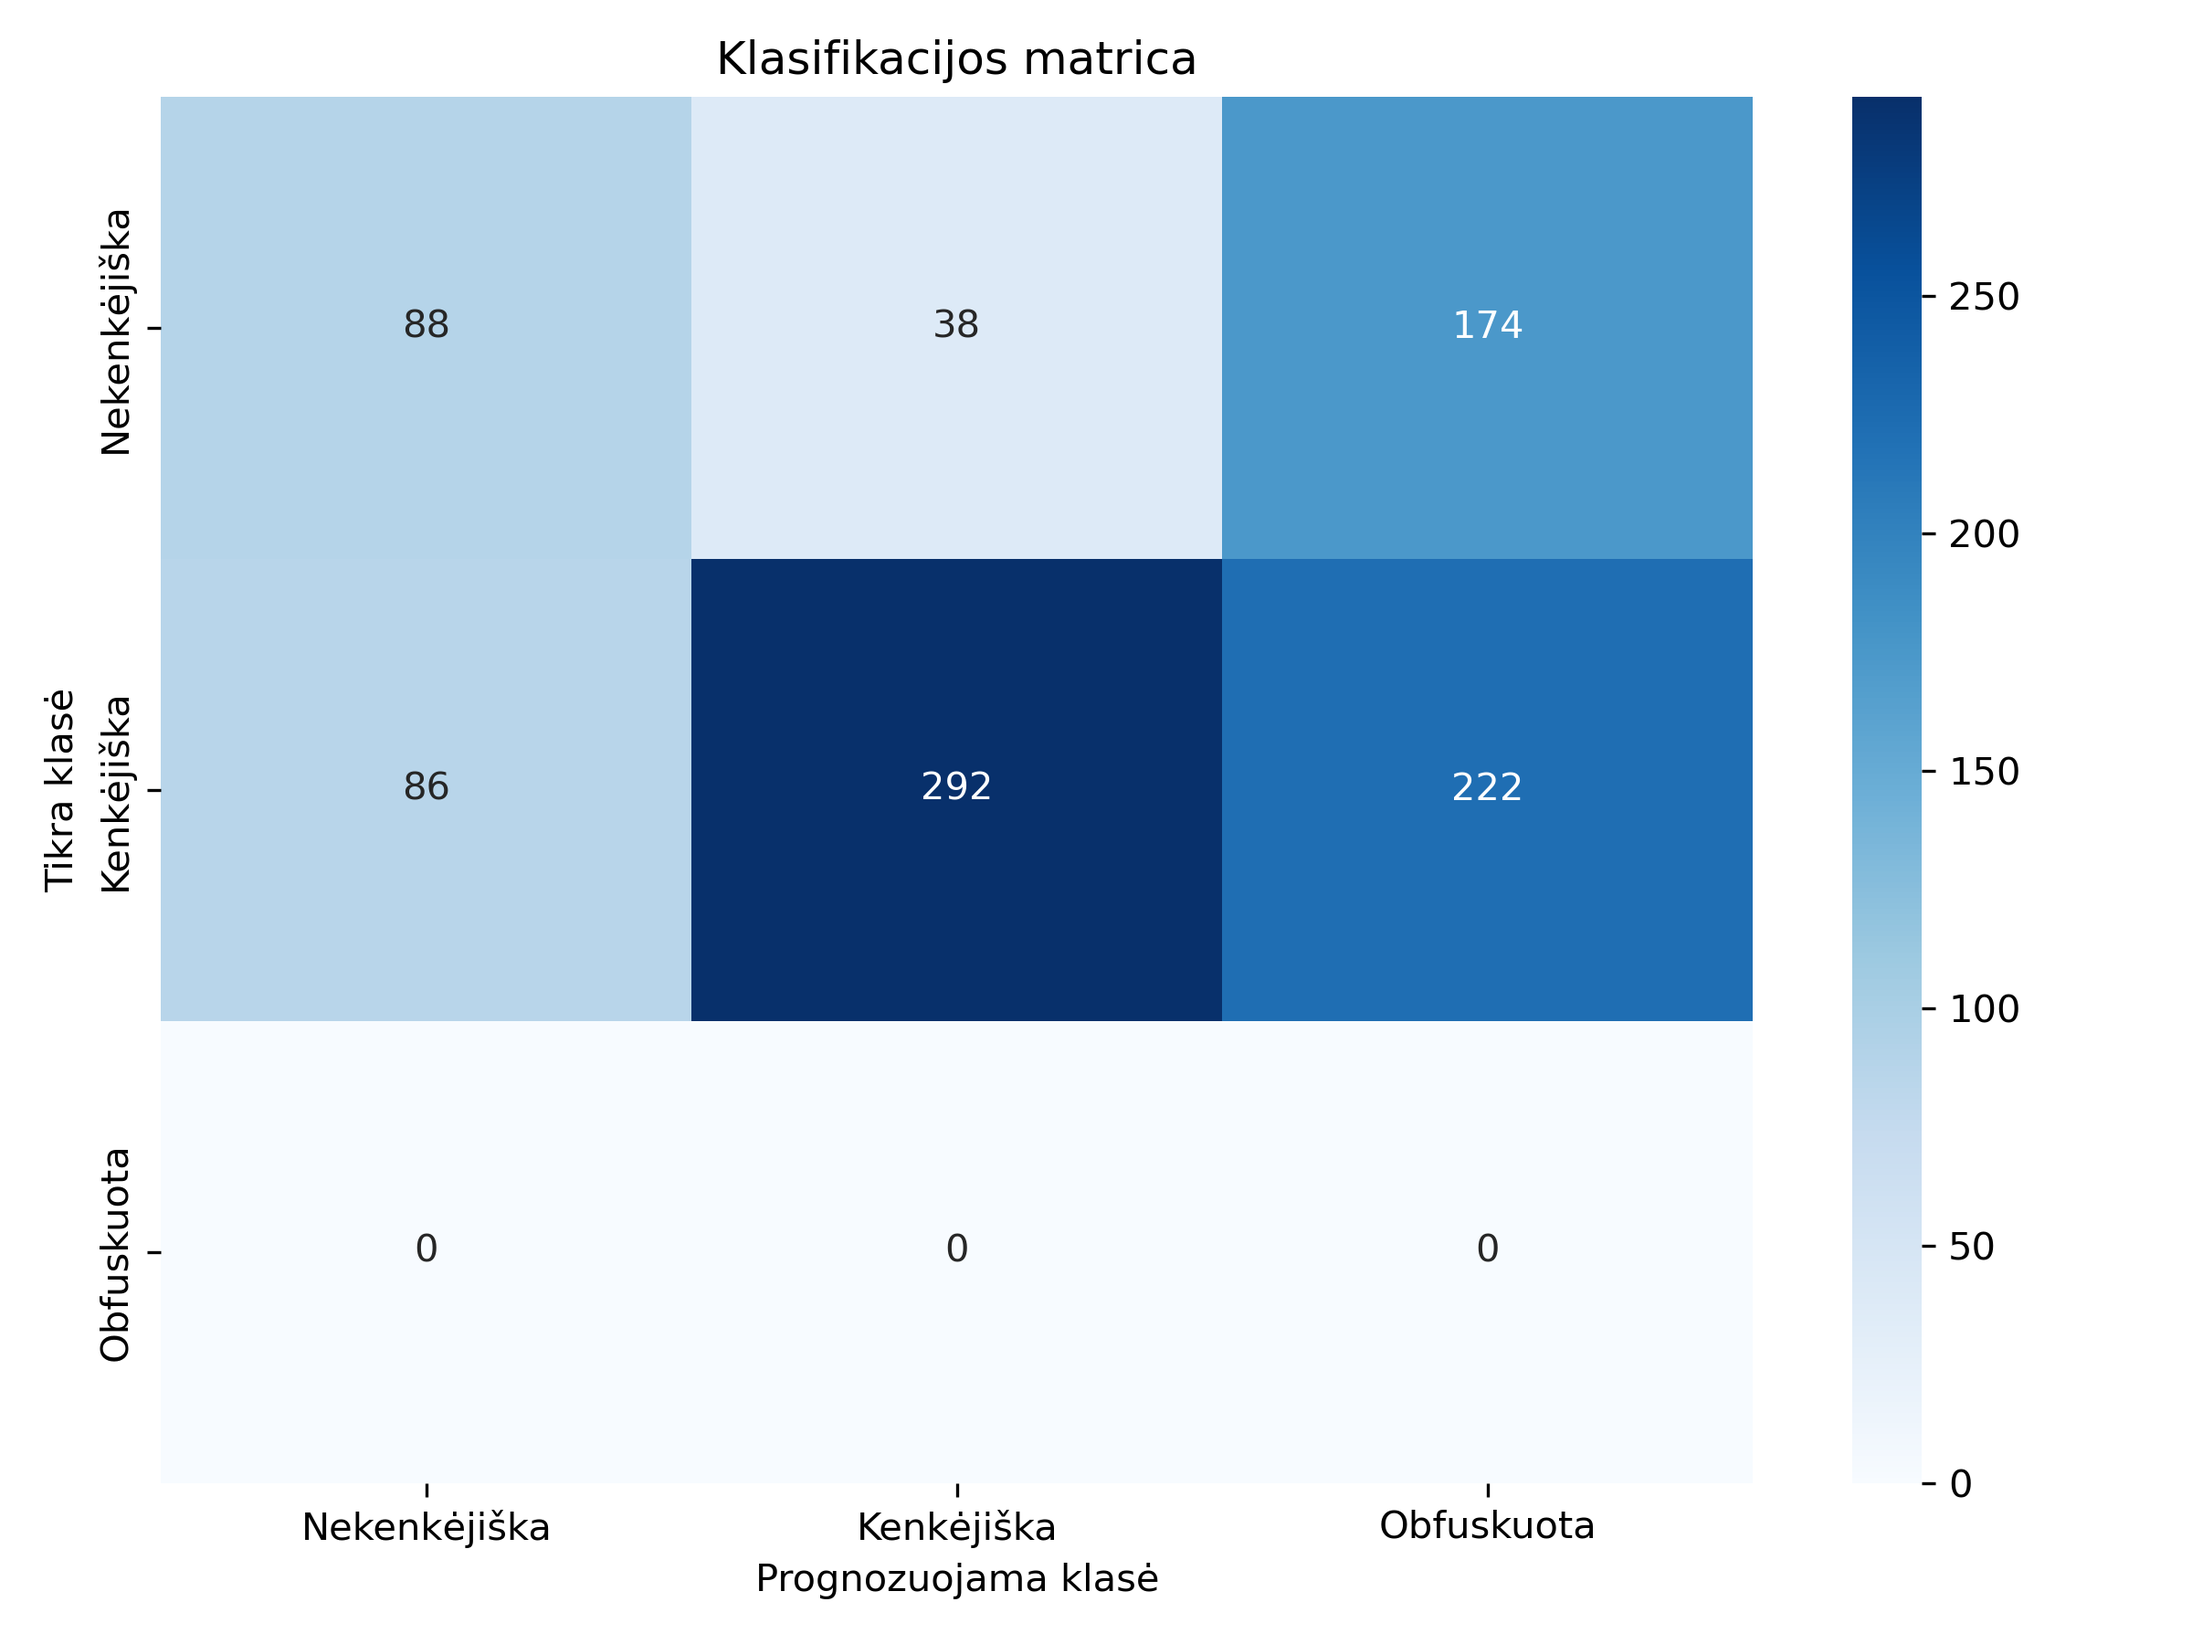
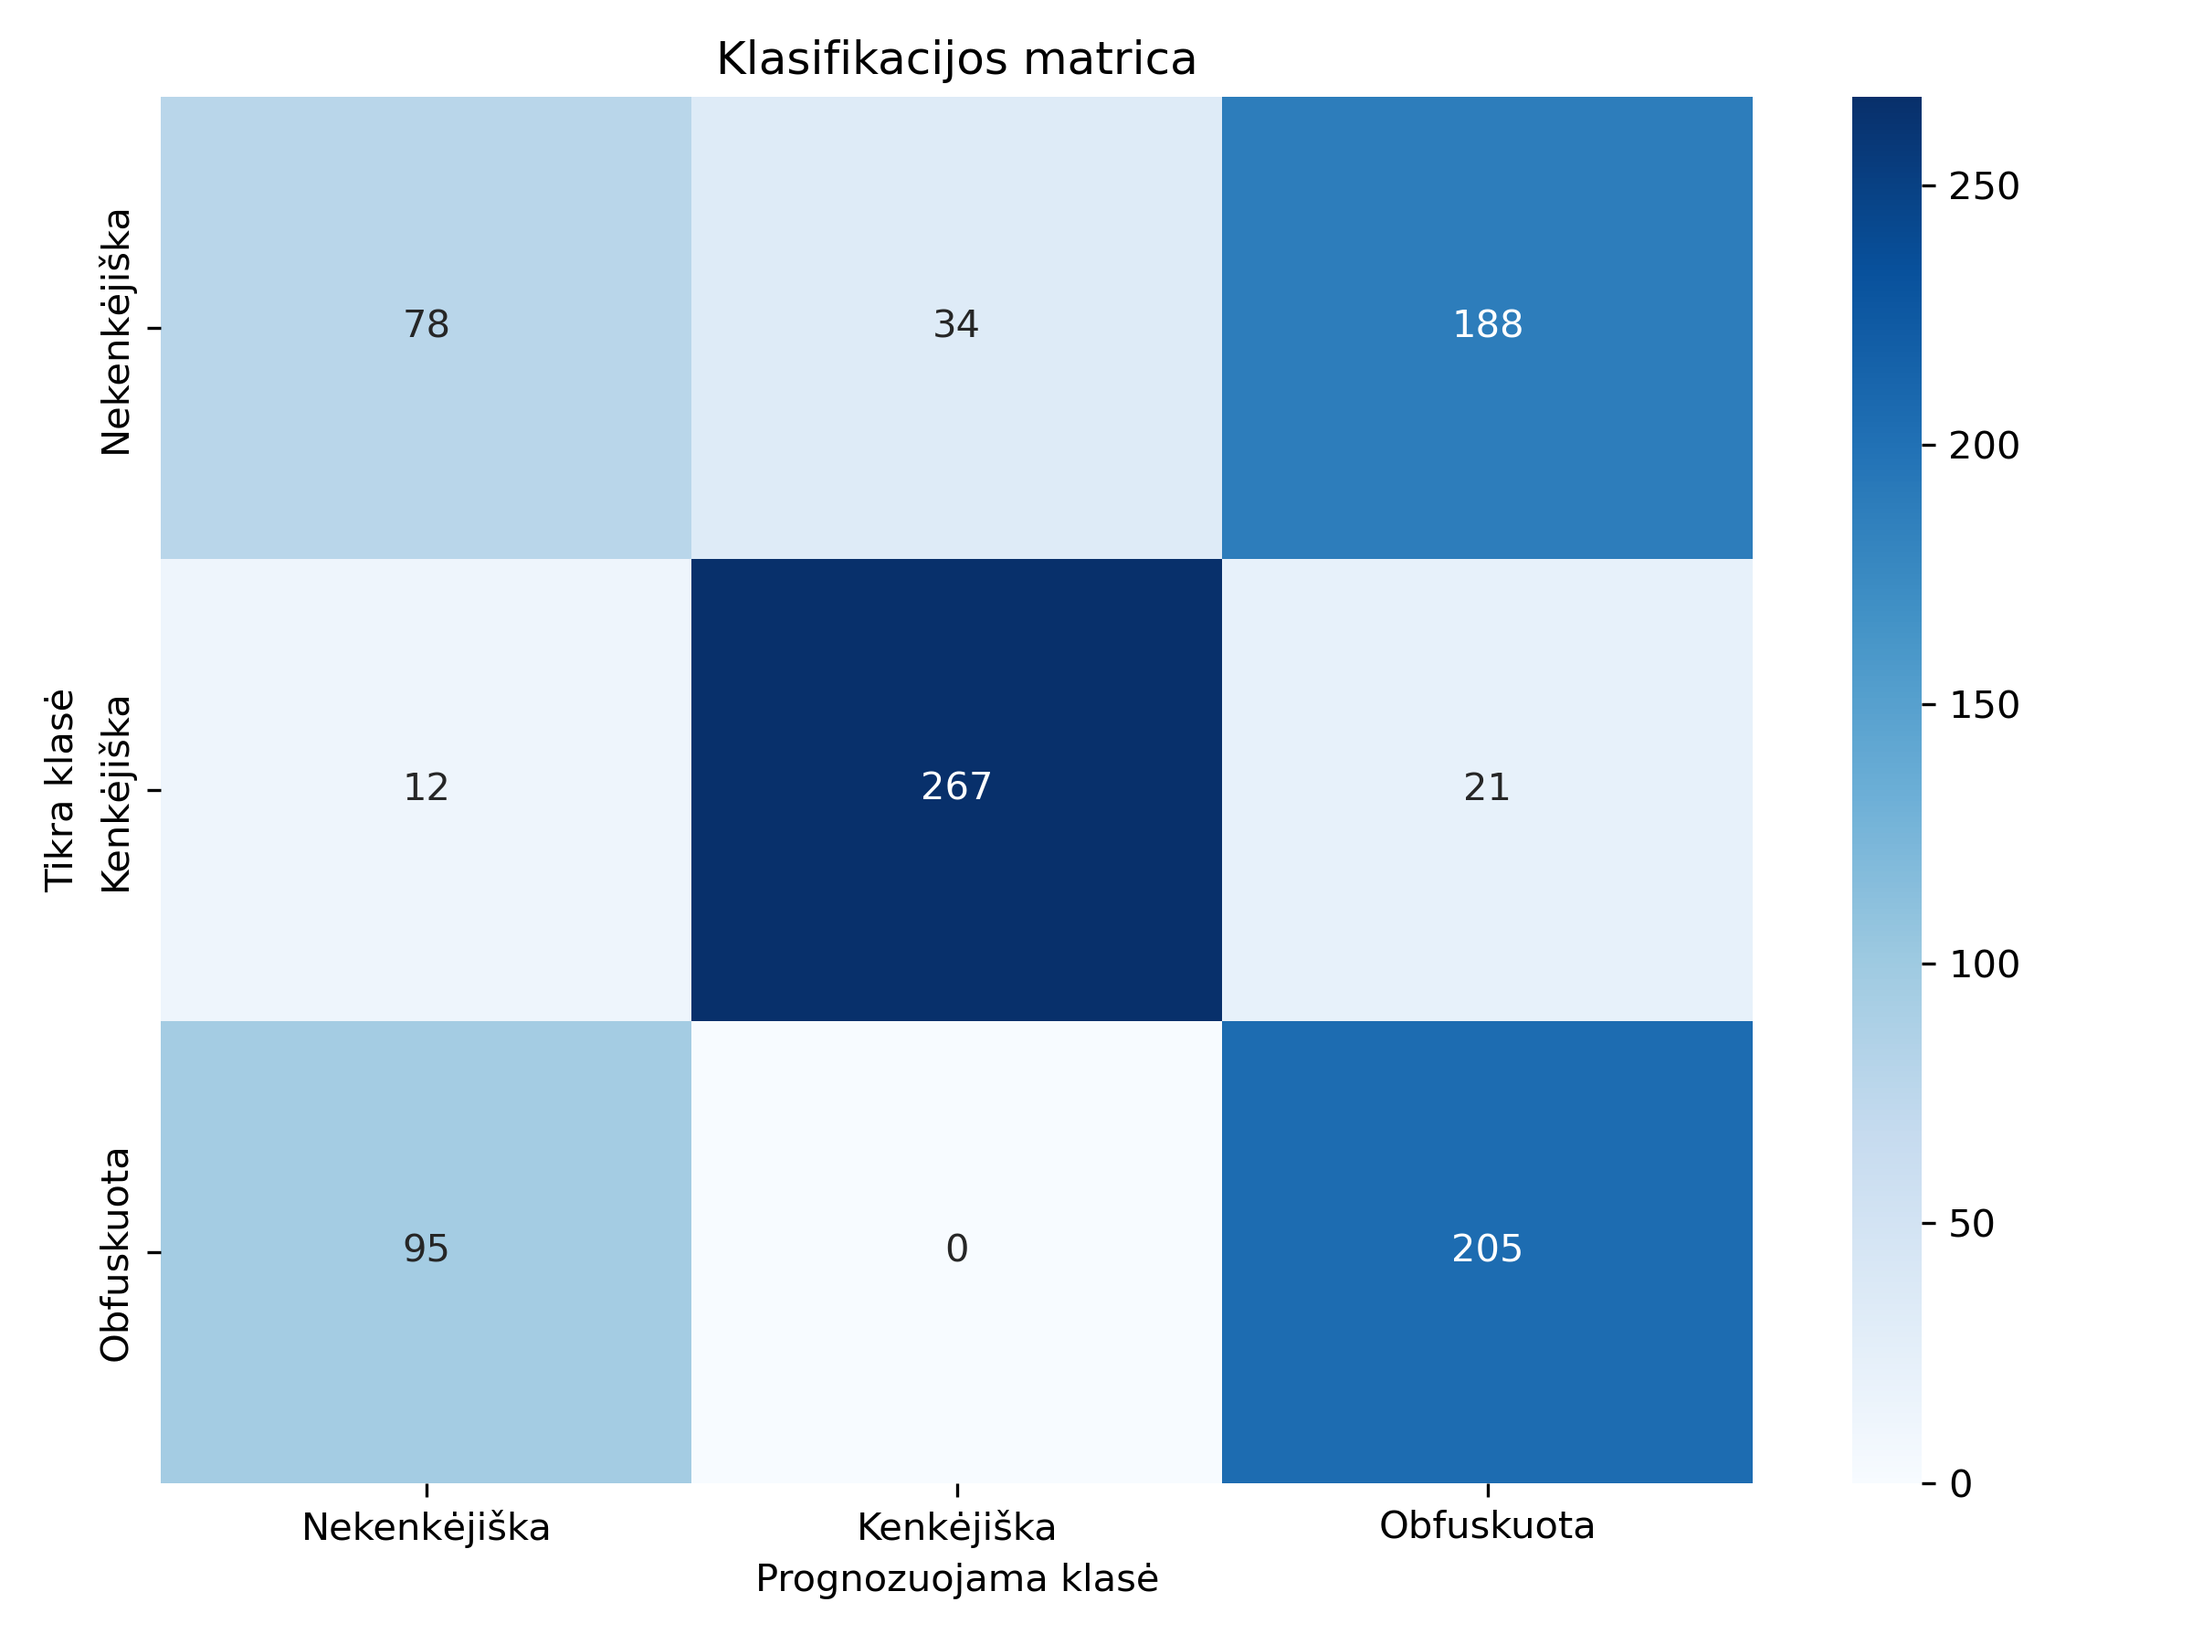
feat(chap-3): Add 4th experiment - MCA-only classification

diff --git a/structure/experiments/methodology.tex b/structure/experiments/methodology.tex
@@ -4,7 +4,7 @@
 
 Visa tyrimo metodika pavaizduota \ref{fig:methodology}-ame pav. Tyrimo tikslas yra nustatyti, ar \LIME ir \gls{mca} metodų sintezė geba efektyviai aptikti \glsplka{adversarial} ir ar šio metodo tikslumas didesnis nei Tcydenovos ir kt. pasiūlyto \LIME pritaikymo \glsplko{adversarial} aptikimui. Tyrimui pasirinktas \SLEIPNIR \cite{al-dujailiAdversarialDeepLearning2018} duomenų rinkinys, kuriame yra $34995$ kenkėjiškų programų ir $19696$ nekenkėjiškų programų pavyzdžių, užkoduotų $22761$-mačiais dvejetainiais vektoriais. Iš šio rinkinio pasirinkta po $1500$ unikalių kenkėjiškų ir nekenkėjiškų programų pavyzdžių paliekant pirmas $200$ komponenčių -- taip gaunamas subalansuotas duomenų rinkinys. Šis rinkinys toliau skeliamas į mokymo ir testavimo aibes santykiu $4:1$. Eksperimentams atlikti paruošiamos šios priemonės:
 \begin{enumerate}
-    \item Testavimo duomenų aibė.
+    \item Testavimo duomenų aibė, iš kurios sudaromas trijų tipų programų požymių srautas: nekenkėjiškos, kenkėjiškos, kenkėjiškos-obfuskuotos.
     \item \textit{MalGAN} \cite{huGeneratingAdversarialMalware2017} \gls{ae} generatorius.
     \item Kenkėjiškų programų detektorius (klasifikatorius).
     \item \Glsplko{adversarial} aptikimo komponentas
@@ -14,19 +14,20 @@ Visa tyrimo metodika pavaizduota \ref{fig:methodology}-ame pav. Tyrimo tikslas y
     \end{itemize}
 \end{enumerate}
 
-Su šiais įrankiais atliekami 3 eksperimentai:
+Su šiais įrankiais atliekami 4 eksperimentai:
 \begin{enumerate}
     \item Bazinis atvejis -- klasifikatoriaus be \glsplko{adversarial} aptikimo metodų tikslumo nustatymas.
+    \item Klasifikatoriaus, naudojančio \gls{mca} transformuotus požymius, tikslumo nustatymas.
     \item Klasifikatoriaus su \LIME metodo pritaikymo \glsplko{adversarial} aptikimui modifikacija tikslumo nustatymas.
     \item Klasifikatoriaus su \LIME ir \gls{mca} metodų sintezės \glsplko{adversarial} aptikimui modifikacija tikslumo nustatymas.
 \end{enumerate}
 
 
-\subsection{\gls{mca} komponenčių pasirinkimas}
+\subsection{\gls{mca} komponenčių pasirinkimas}\label{sec:method:mca_comp_selection}
 Komponenčių pasirinkimas yra \ref{fig:methodology}-ame pav. minimo \gls{mca} modelio paruošimo dalis. Komponenčių pasirinkimui \ty jų kiekio pasirinkimui nėra apibrėžto \enquote{teisingo} metodo \cite{abdiPrincipalComponentAnalysis2010}. Dažniausiai siūlomi metodai yra tik didesnių už $1$ tikrinių reikšmių pasirinkimas ir \textit{alkūnės} \angl{scree / elbow} metodas. Šie metodai netiko, nes juos taikant paliktos \gls{mca} komponentės paaiškintų $<50\%$ visos \glsko{inertia}: visos tikrinės reikšmės analizuojamuose mokymo duomenyse yra $<1$, o alkūnės taške sukaupta \gls{inertia} yra $\sim 30\%$ \zr{fig:inertia}. Taigi, pasirinkti 2 nestandartiniai \gls{mca} komponenčių kiekio kriterijai: 
 \begin{itemize}
-    \item sukaupta \gls{inertia} $\ge 70\%$,
-    \item Išmokyto klasifikatoriaus tikslumas nemažesnis nei originalaus klasifikatoriaus \TODO.
+    \item sukaupta \gls{inertia} $\ge 75\%$,
+    \item Išmokyto klasifikatoriaus tikslumas $\hat{a}$ nemažesnis nei originalaus klasifikatoriaus tikslumas $a$ $5\%$ intervale ($\hat{a} \ge a - 5\%$), kai įvesčių srautas normalus (nėra obfuskuotų programų požymių -- \gls{ae}) \TODO.
 \end{itemize}
 
 \begin{figure}[h]
@@ -38,7 +39,7 @@ Komponenčių pasirinkimas yra \ref{fig:methodology}-ame pav. minimo \gls{mca} m
 
 \begin{figure}[h]
     \centering
-    \includegraphics[width=0.45\textwidth]{images/inertia_50.png}
+    \includegraphics[width=0.5\textwidth]{images/inertia_50.png}
     \caption{\textit{Alkūnės} analizė \gls{mca} inercijai}
     \label{fig:inertia}
 \end{figure}

diff --git a/structure/experiments/ids_method_only.tex b/structure/experiments/ids_method_only.tex
@@ -1,6 +1,6 @@
 \subsubsection{Modifikuoto \LIME pritaikymo \gls{ae} aptikimui tikslumo nustatymas}
 
-Šio eksperimento tikslas yra nustatyti modifikuoto \LIME pritaikymo \gls{ae} aptikimui (\ref{sec:method:mods}) tikslumą. \LIME branduolio plotis paliekamas pagal numatytus nustatymus ($\omega = \lfloor 0,75 \cdot \sqrt{n} \rfloor$, čia $n$ -- požymių skaičius, taigi, $\omega = \lfloor 0,75 \cdot \sqrt{200} \rfloor = 10$) \cite{ribeiroWhyShouldTrust2016}.
+Šio eksperimento tikslas yra nustatyti modifikuoto \LIME pritaikymo \gls{ae} aptikimui (\ref{sec:method:mods}) tikslumą. \LIME branduolio plotis paliekamas pagal numatytus nustatymus ($\omega = 0,75 \cdot \sqrt{n}$, čia $n$ -- požymių skaičius, taigi, $\omega = 0,75 \cdot \sqrt{200} \approx 10,61$) \cite{ribeiroWhyShouldTrust2016}.
 
 Kadangi šis metodas geba aptikti \gls{ae} -- obfuskuotas programas --
 \ref{fig:exp2:confusion}-ame pav. pateikiamos dvi klasifikacijos lentelės. Pirmoje (\ref{fig:exp2:confusion:a}) -- klasifikacijos rezultatai, kai obfuskuota programa laikoma kenkėjiška. Antroje (\ref{fig:exp2:confusion:b}) -- išskiriama \textit{obfuskuota} klasė. Kadangi išskyrus šia klasę duomenų rinkinys tampa subalansuotas, klasifikavimo lentelėje pateikiami sveiki skaičiai, atitinkantys modelio prognozuojamų duomenų tai klasei kiekį.

diff --git a/structure/experiments/mca.tex b/structure/experiments/mca.tex
@@ -1,0 +1,20 @@
+\subsubsection{\gls{mca} transformacijos klasifikatoriaus tikslumo nustatymas}
+
+\gls{mca} klasifikatorius yra vienas iš standartinių klasifikatorių (šiuo atveju atsitiktinio miško \angl{random forest}), naudojantis pakeistos bazės požymius kaip įvestį. Šioje vietoje naudojamas klasifikatorius gali būti bet koks, tačiau turi būti suderinamas su \gls{mca} komponenčių kiekio reikalavimais \skyrius{sec:method:mca_comp_selection}{}.
+
+\TODO
+
+Eksperimento rezultatai (klasifikavimo metrikos) pateikiami \ref{tbl:exp4:metrics}-oje lentelėje.
+\begin{figure}[h]
+    \centering
+    \includegraphics[width=0.5\textwidth]{images/mca_2x2.png}
+    \caption{Klasifikavimo matrica}
+    \label{fig:exp4:confusion}
+\end{figure}
+
+\begin{table}[h]
+    \caption{\gls{mca} transformacijos klasifikatoriaus metrikos}
+    \centering
+    \exptable[\accMcaEquiv]{tables/mca_2x2.csv}
+    \label{tbl:exp4:metrics}
+\end{table}

diff --git a/structure/literature/strats.tex b/structure/literature/strats.tex
@@ -27,7 +27,7 @@
 \strat~\angl{transferability blocking} -- tai varžymosi principais pagrįsto pertreniravimo \skyrius{sec:literature:defense:retraining}{} praplėtimas, įtraukiant naują (\textit{NULL}) kategoriją į galimas klasifikatoriaus išvestis. Ši strategija praplečia klasifikatoriaus treniravimą į šiuos etapus:
 \begin{enumerate}
     \item Įprastas klasifikatoriaus treniravimas.
-    \item \textit{NULL} tikimybių skaičiavimas -- suprantama kaip \glsko{adversarial} tikimybė. Tikimybių skaičiavimas pateiktas \ref{eq:null}-oje lygtyje.
+    \item \textit{NULL} tikimybių funkcijos $f$ skaičiavimas. $p_{NULL}$ suprantama kaip \glsko{adversarial} tikimybė. \textit{NULL} tikimybių ir jų skaičiavimo funkcijos $f$ ryšys pateiktas \ref{eq:null}-oje lygtyje.
     \item Varžymosi principais pagrįstas pertreniravimas, įtraukiant tiek originalias įvestis, tiek perturbuotas ($\delta X$).
 \end{enumerate}
 

diff --git a/structure/experiments/synthesis_method.tex b/structure/experiments/synthesis_method.tex
@@ -1,6 +1,6 @@
 \subsubsection{\LIME ir \gls{mca} metodų sintezės tikslumo nustatymas}
 
-\TODO
+Šio eksperimento tikslas yra nustatyti autoriaus siūlomos modifikuoto \LIME ir \gls{mca} metodų sintezės \glsplko{adversarial} aptikimui tikslumą. Kaip ir praeitame eksperimente, \ref{fig:exp3:confusion}-ame pav. pateikiamos dvi klasifikavimo lentelės -- išskiriant ir neišskiriant \textit{obfuskuotą} klasę. 
 
 \begin{figure}[h]
     \begin{subfigure}{0.5\textwidth}

diff --git a/structure/experiments/normal.tex b/structure/experiments/normal.tex
@@ -15,7 +15,7 @@ diagonalė nurodo klasės atkūrimo statistiką \angl{recall}).
 Eksperimento rezultatai (klasifikavimo metrikos) pateikiami \ref{tbl:exp1:metrics}-oje lentelėje.
 \begin{figure}[h]
     \centering
-    \includegraphics[width=0.45\textwidth]{images/normal_2x2.png}
+    \includegraphics[width=0.5\textwidth]{images/normal_2x2.png}
     \caption{Klasifikavimo matrica}
     \label{fig:exp1:confusion}
 \end{figure}

diff --git a/tables/acc.tex b/tables/acc.tex
@@ -1,5 +1,6 @@
-\def\accNormal{\num{0.617}}
-\def\accLime{\num{0.708}}
-\def\accLimeCat{\num{0.669}}
-\def\accLimeObf{\num{0.56}}
-\def\accLimeCatObf{\num{0.422}}
+\def\accNormal{\num{0.592}}
+\def\accLime{\num{0.794}}
+\def\accLimeCat{\num{0.634}}
+\def\accMcaEquiv{\num{0.724}}
+\def\accLimeObf{\num{0.778}}
+\def\accLimeCatObf{\num{0.611}}

diff --git a/structure/experiments/experiments.tex b/structure/experiments/experiments.tex
@@ -6,6 +6,8 @@
 \subsection{Eksperimentai}
 \input{structure/experiments/normal}
 \clearpage
+\input{structure/experiments/mca}
+\clearpage
 \input{structure/experiments/ids_method_only.tex}
 \clearpage
 \input{structure/experiments/synthesis_method.tex}

diff --git a/README.md b/README.md
@@ -16,14 +16,15 @@ done["Done"]
 ```mermaid
 kanban
 todo["Todo"]
- Normal
- IDS-only
+ MCA-EQUIV
  Original
  Results
  Implications
 
 review["To review"]
  Methodology
+ Normal
+ IDS-only
 done["Done"]
 ```
 
